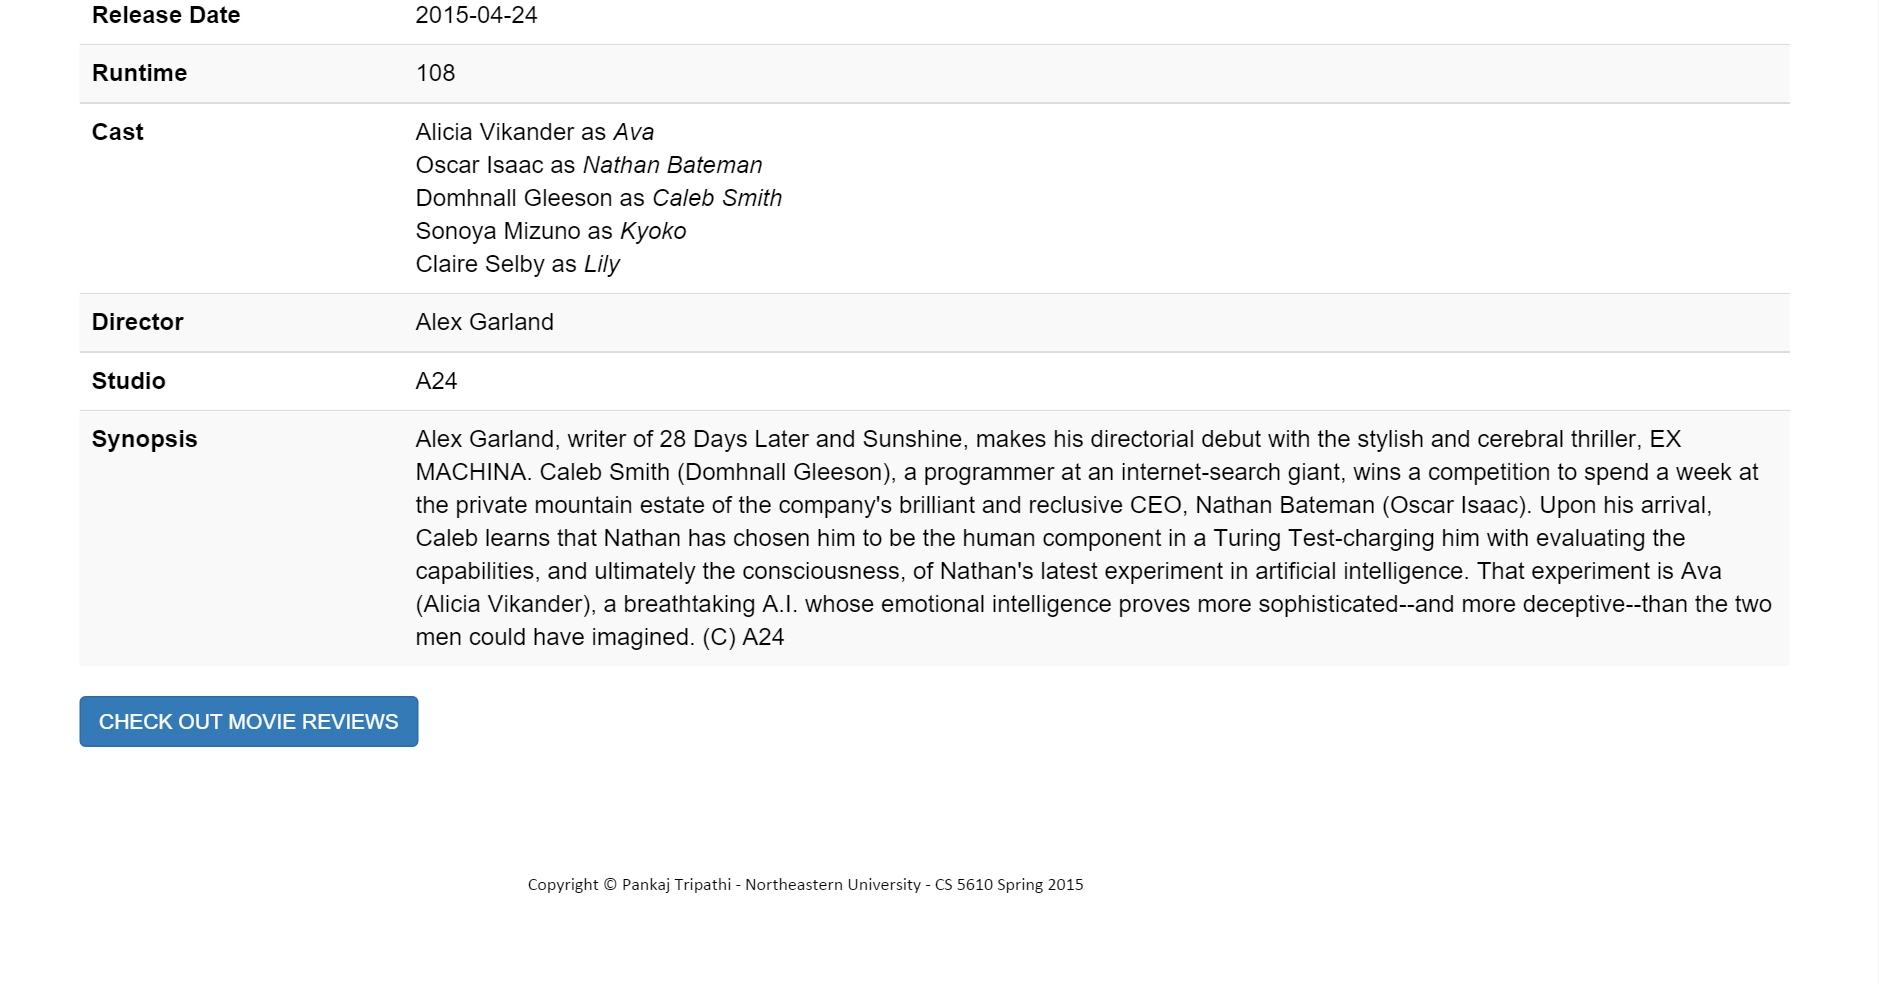
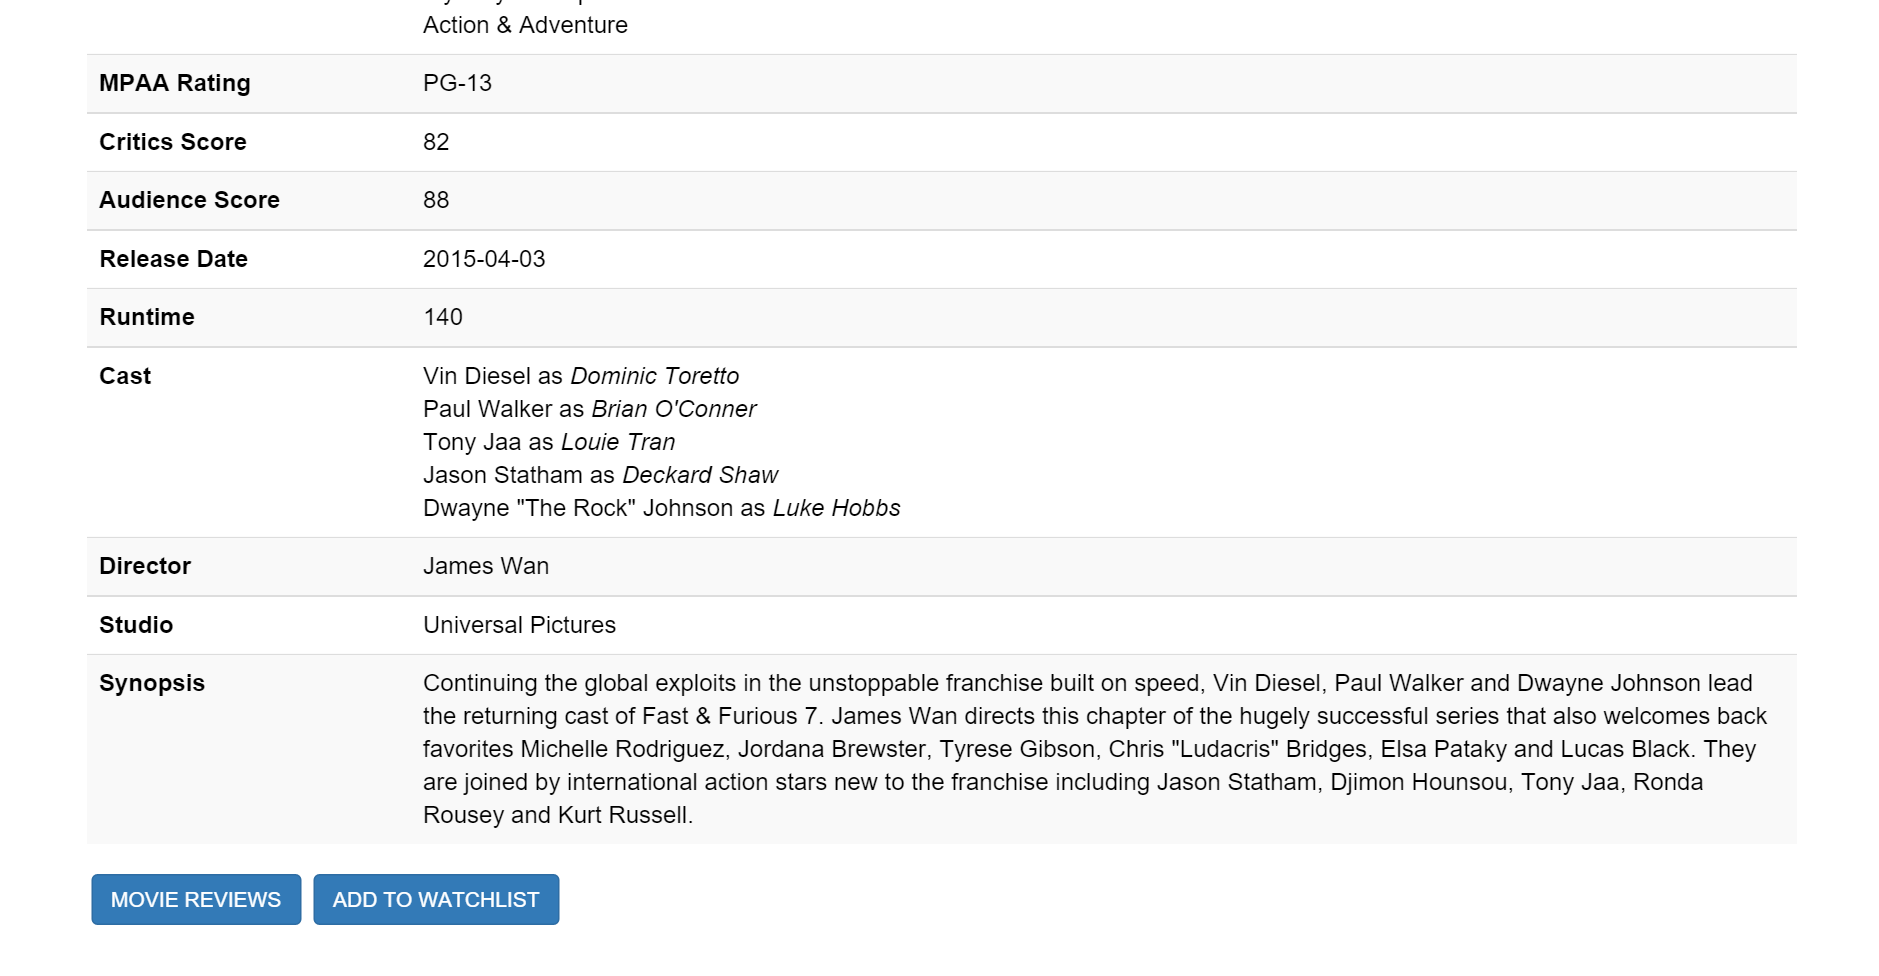
latest upload

diff --git a/essential/project/docs/documentation.html b/essential/project/docs/documentation.html
@@ -169,6 +169,9 @@
                 <p>
                     User can check the movie details from movie results shown in In Theaters page, Opening Movies, Box office, Search page, and Upcoming movies page.
                     User can hover on the result table and get the movie details by clicking on the result and then he/she can check out the details of the movie.
+                    User can also check the review of the movie by clicking the movie review button on the page and he/she can also add the movie to his/her
+                    watch list by clicking the add to watch list button but for that user should be logged in. If the user is not logged in he/she wont be able 
+                    to see add to watch list button as it will be hidden ad will be showed to only logged in user.
                 </p>
                 <div>
                     <img class="inthea-img" src="snaps/det-img.png" />
@@ -239,23 +242,29 @@
                 <h4>Profile Page</h4>
                 <p>
                     User once logged in and authenticated will be taken to his/her profile page where all the profile related info will be displayed.
-                    User can check his/her info and then there is also a button at the end which will take the user to the movie watchlist page where
-                    he/she can add movies that they wish to see sometime.
+                    User can check his/her info at the same time user can edit his/her details. User can change any details except for username which cannot 
+                    be changed. On the profile page user's movie watch list is also displayed. If no such list is created then the content won't be displayed
                 </p>
                 <div>
                     <img class="inthea-img" src="snaps/prof-img.png" />
                 </div><br /><br /><br />
             </div>
-            <h3>MyMovies Page</h3>
+            <h3>Adding Movie to WatchList</h3>
             <div>
-                <h4>MyMovies Page</h4>
+                <h4>Adding Movie to WatchList</h4>
                 <p>
-                    Logged in user can create a list of movies they would love to watch by searching the movies
-                    User can check his/her info and then there is also a button at the end which will take the user to the movie watchlist page where
-                    he/she can add movies that they wish to see sometime.
+                    In order to add movie to watch list a movie should be checked from either of these pages:
+                    In Theaters, Box Office, Upcoming Movies, Opening Movies and Movie Search. 
+                    The results on these page will be movies whose details can be checked. On the details page there is a button which 
+                    enables user to add the movie to the list which will be displayed on his/her profile page. In order to add movie to list from
+                    Movie details page the user must be logged in else he won't be able to see the button ADD TO WATCH LIST.
+                    The button is hidden for guest users.
                 </p>
                 <div>
-                    <img class="inthea-img" src="snaps/mymov-img.png" />
+                    <img class="inthea-img" src="snaps/wat-img1.png" />
+                </div><br />
+                <div>
+                    <img class="inthea-img" src="snaps/wat-img2.png" />
                 </div><br /><br /><br />
             </div>
             <h3>Data Storage: MongoDB</h3>
